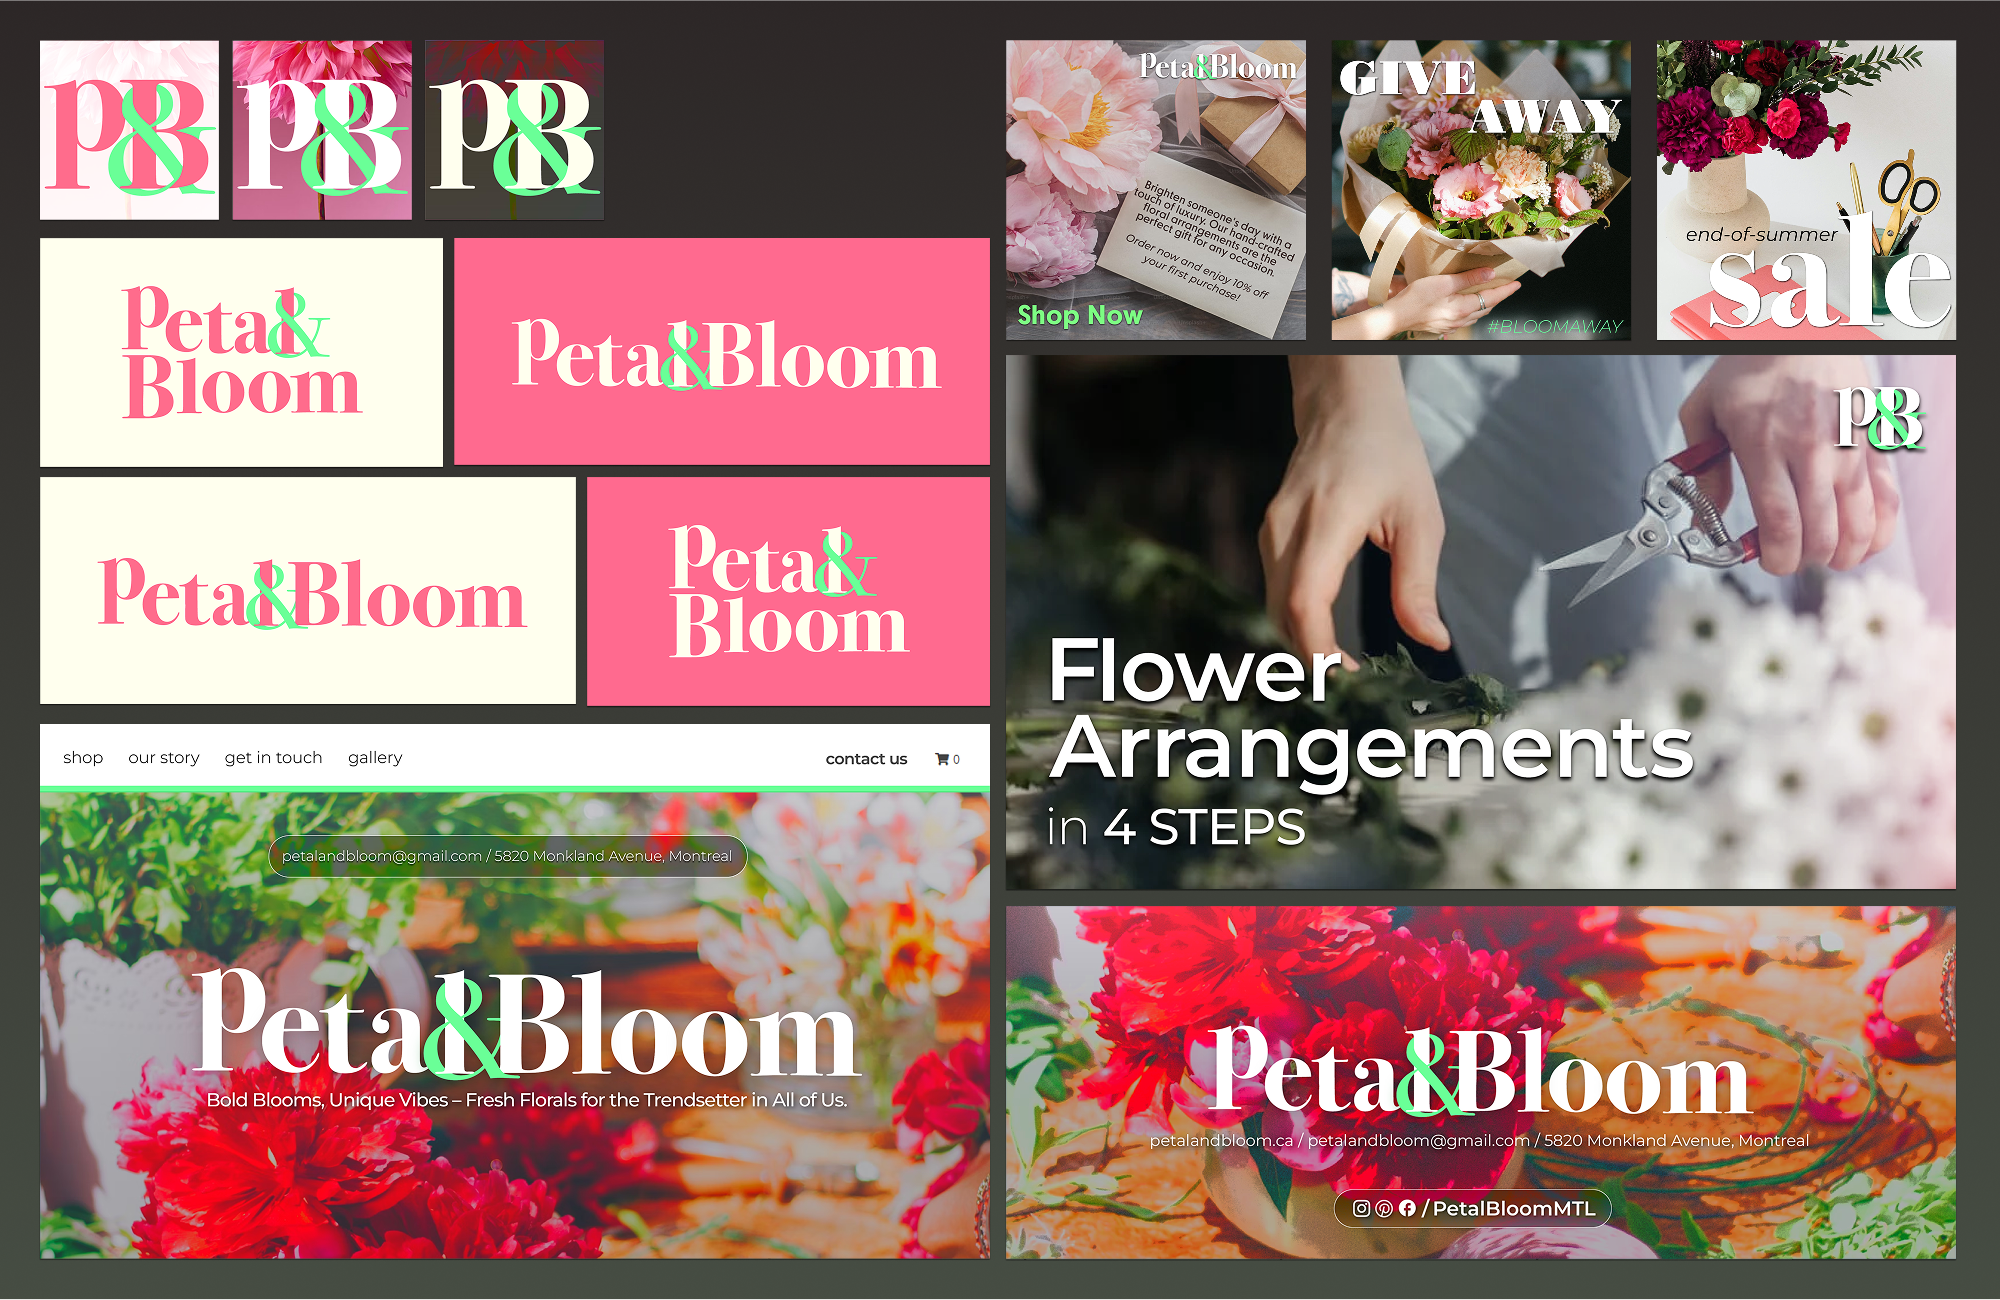
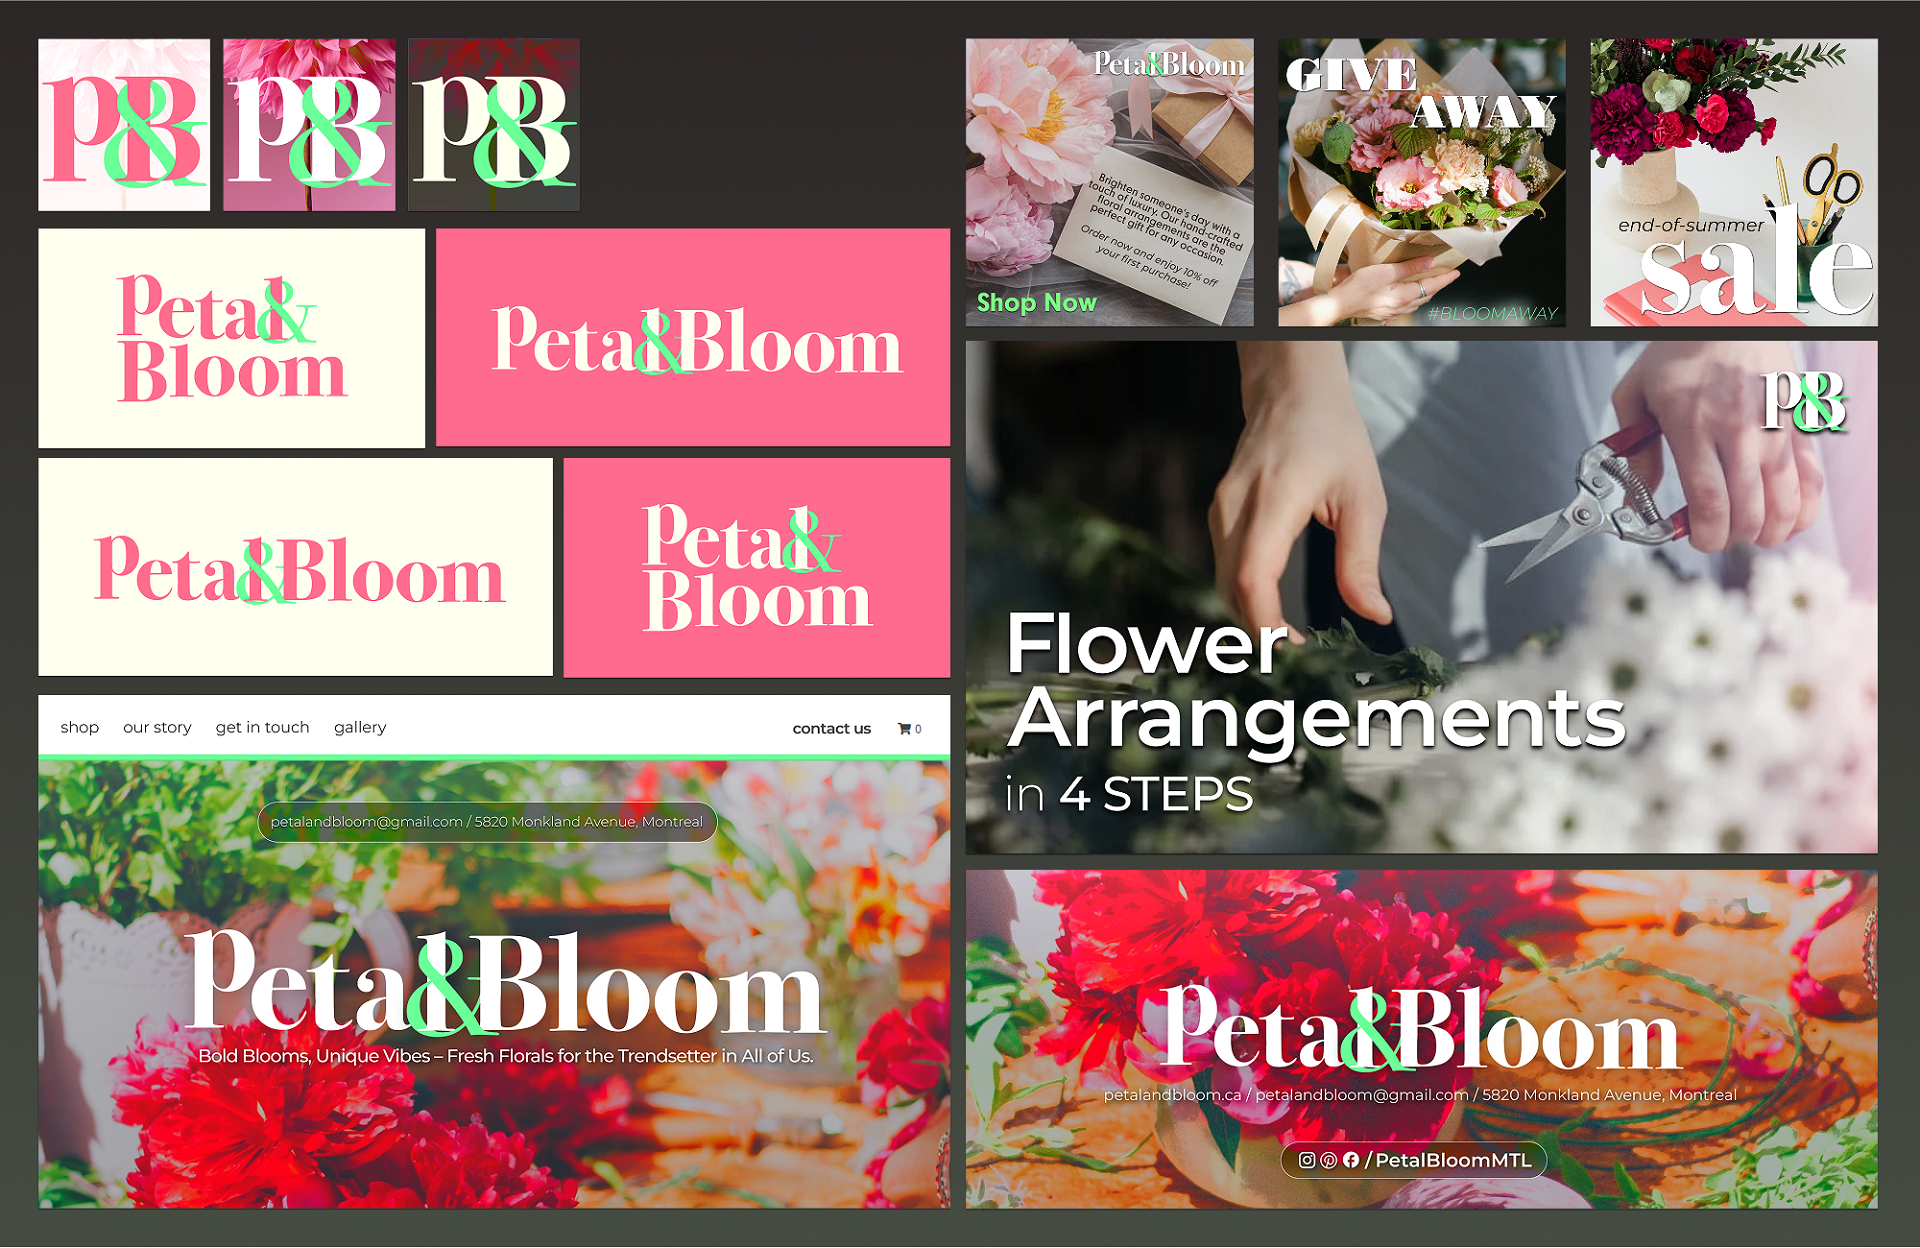
fix images size + paddings

Changed region(s): [[0.5625, 0.1562, 0.625, 0.2188]]

diff --git a/projects-data.js b/projects-data.js
@@ -166,7 +166,7 @@ year: "2021",
 src: "ressources/archives/runbunrun.png",
 description: "Create a small Javascript arcade-like based game where the player is a bunny trying to collect carrots and avoid daggers flying towards them.",
 tools: "Visual Studio Code, Procreate, Photoshop",
-links: "none",
+links: "https://vivian-b.github.io/cart253/projects/project1/index.html",
 tags: [" game design"," javascript"," html / css"," illustration"],
 },
 {

diff --git a/style-archive.css b/style-archive.css
@@ -24,18 +24,10 @@ main {
 
  .nav-container {
       width: 50vw;
-
-      grid-row: 1;
-      display: grid;
-      grid-template-columns: 7.5vw 1fr;
-      grid-template-rows: 45% 1fr;
-      row-gap: 0.1vh;
-      padding: 2%;
+      padding: 2% 0 0 2%;
       position: fixed;
 
       z-index: 25;
-
-      font-size: 95%;
 
   }
 
